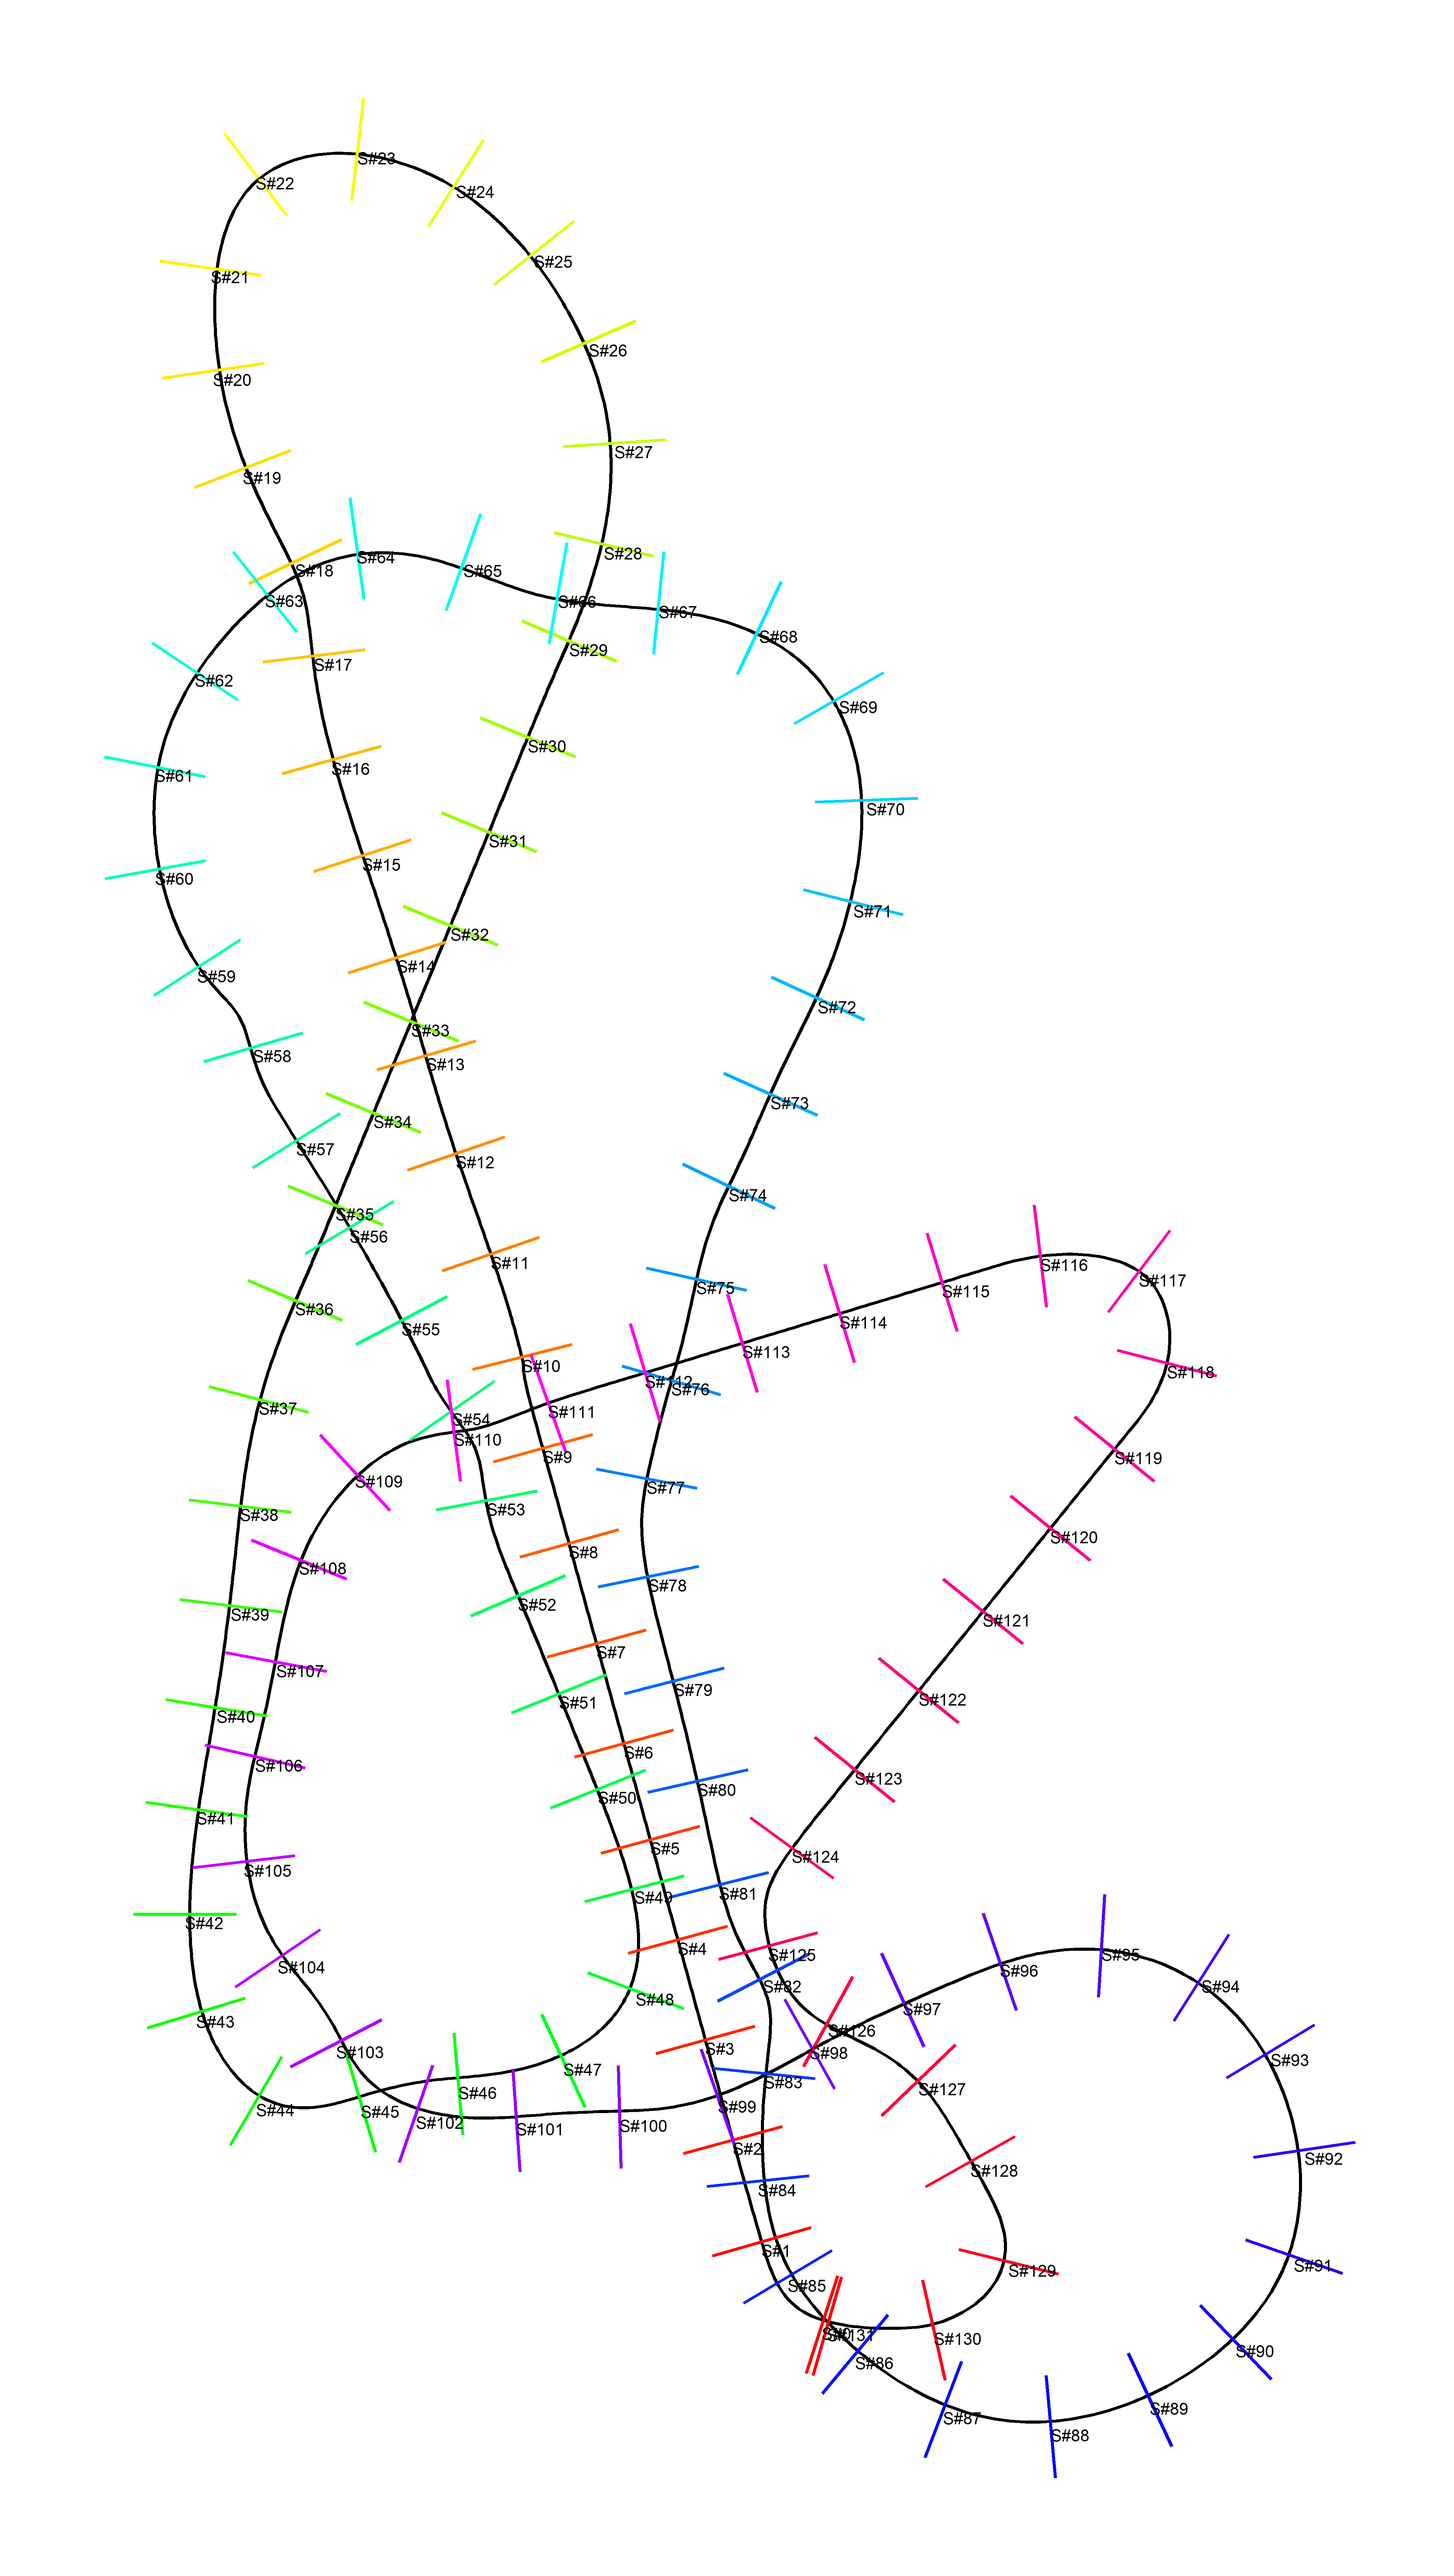
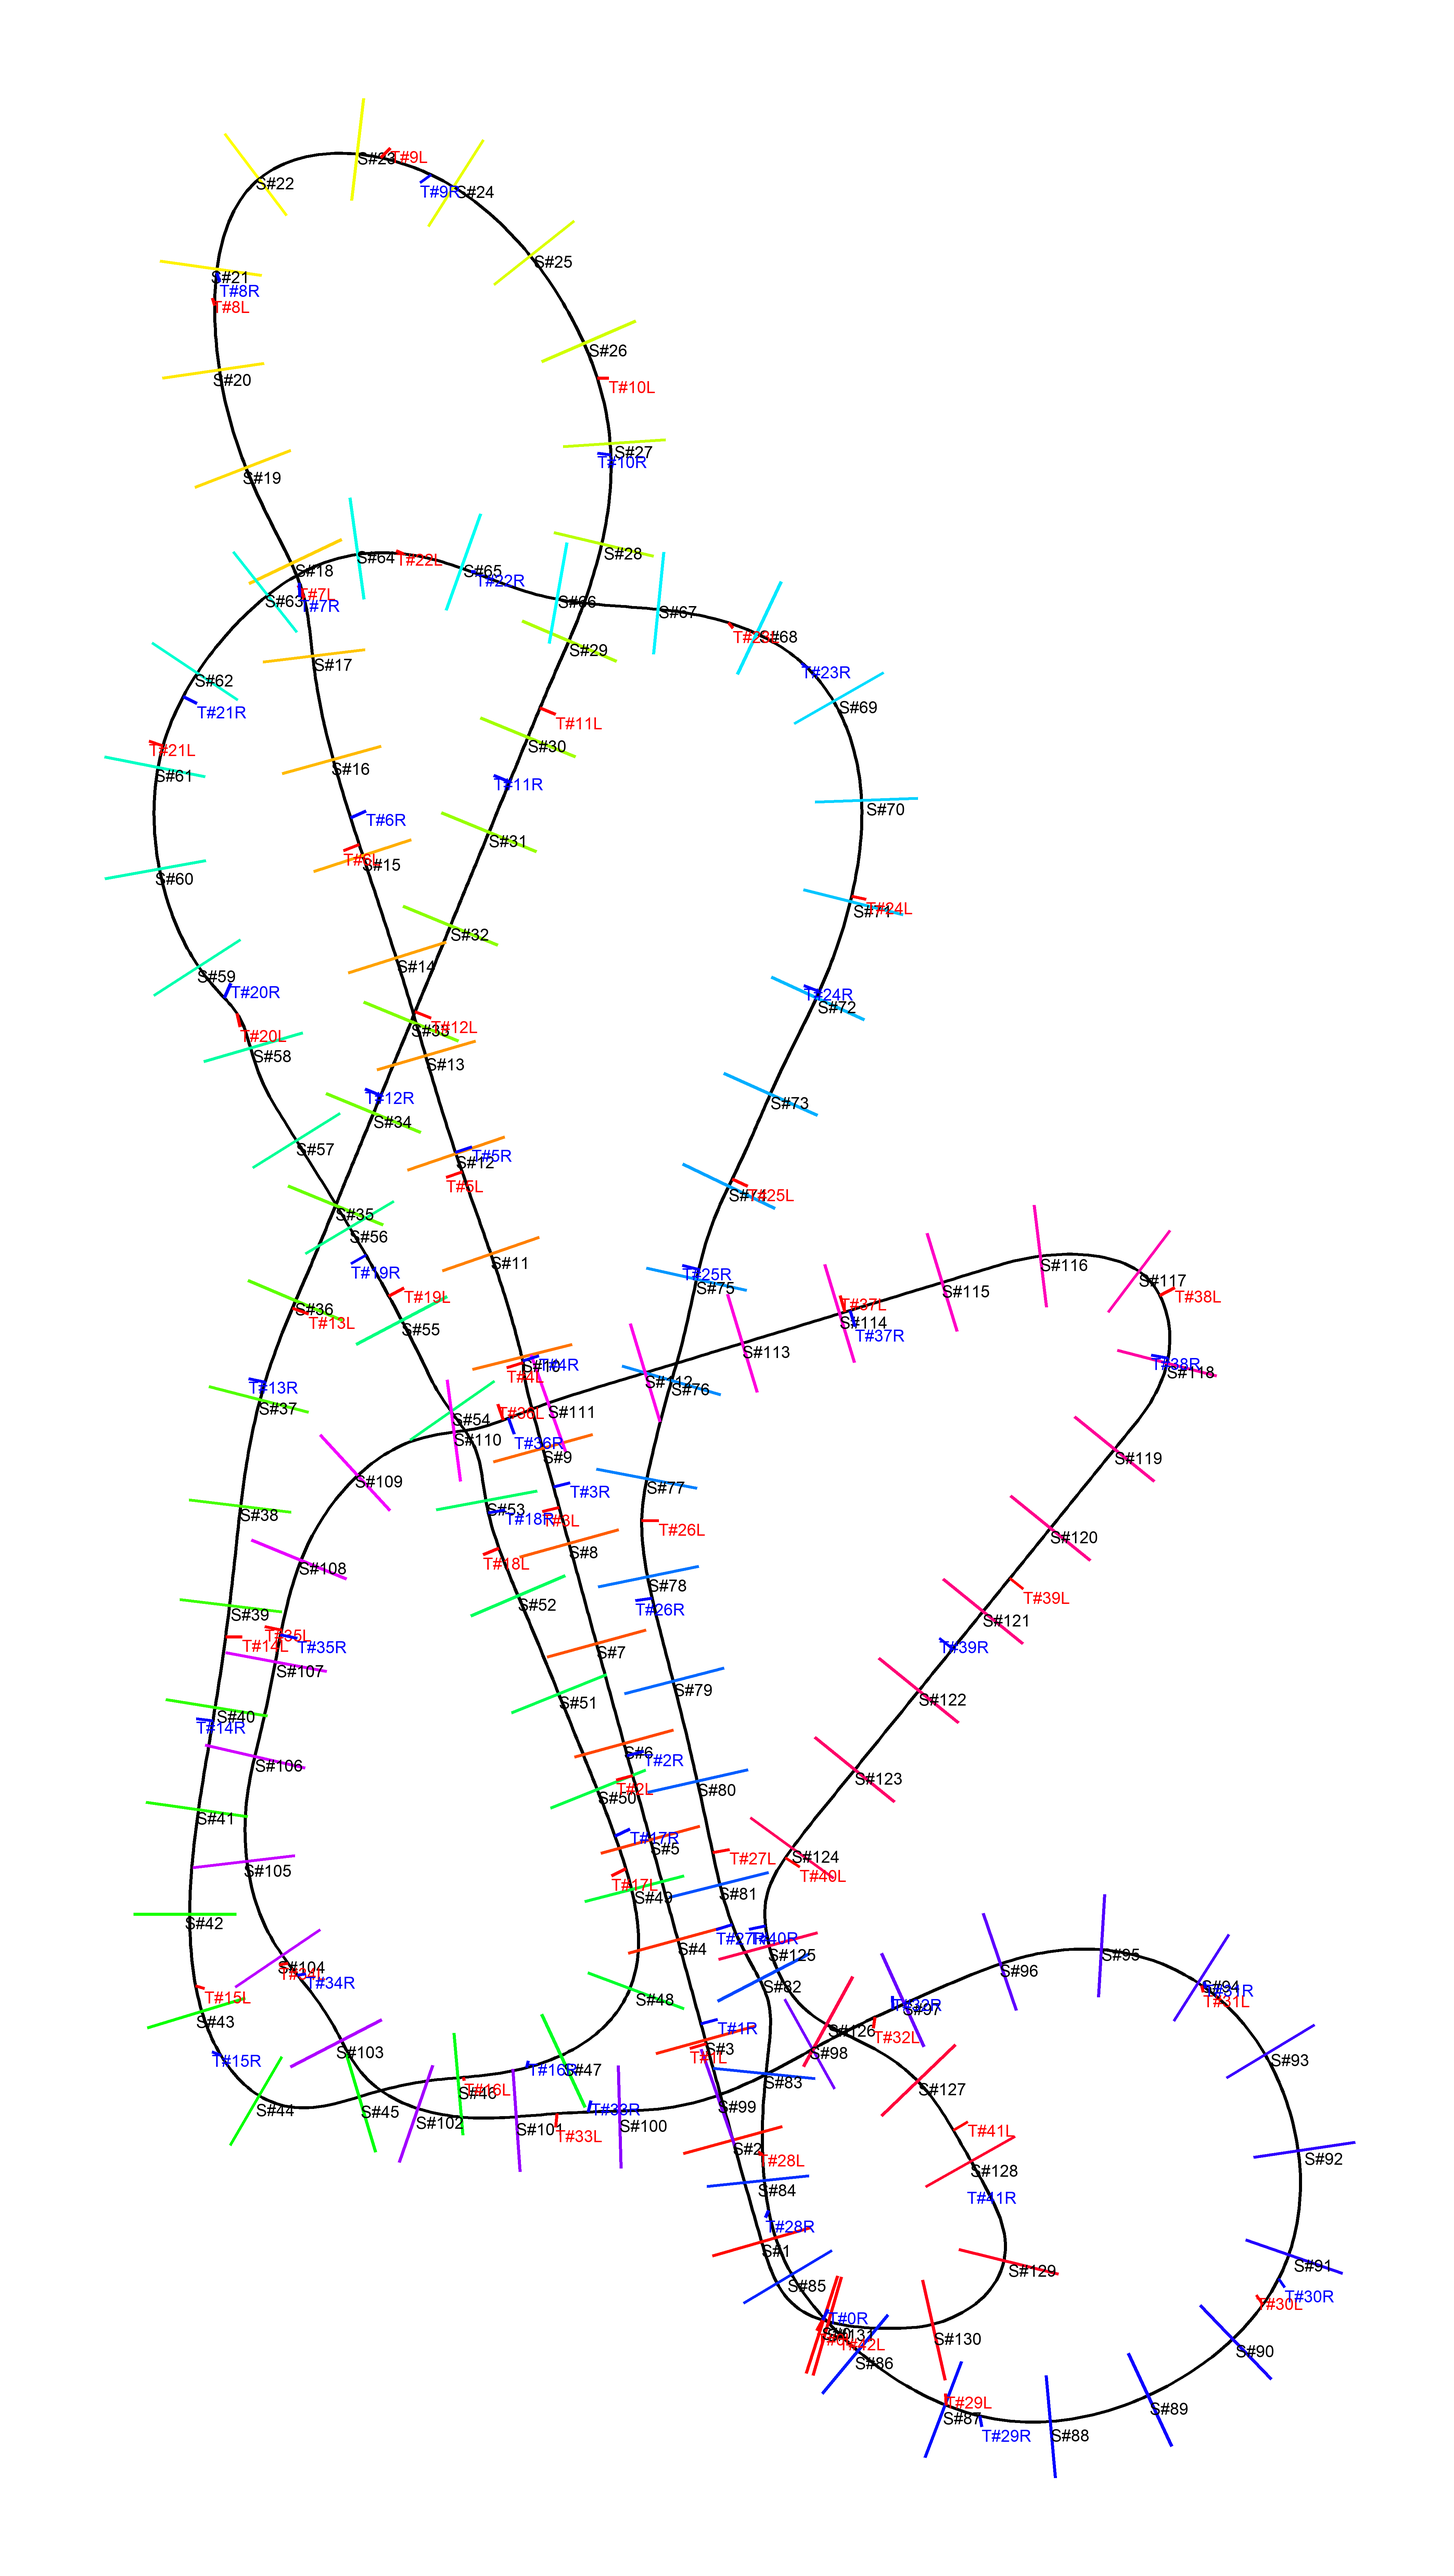
basically done

diff --git a/main.py b/main.py
@@ -22,6 +22,8 @@ The size of the house is:
 x_size = 2.36
 y_size = 4.18
 
+rail_spacing = 1/3/12
+
 scale_constant = 46.0133857727051
     
 offsetConstant = vec.obj(x=.9581111400446335 + 3/12, y= 1.8970500491082292 + 3/12, z=0)
@@ -85,8 +87,8 @@ for i in range(0, len(coords)):
     draw.line(convert(coords[i-1].main.x, y_size - coords[i-1].main.y, coords[i].main.x, y_size - coords[i].main.y), fill = (0,0,0,255), width= 9)
 
 for i in coords:
-    poseRight = i.railCoordinate(1/3/12)
-    poseLeft = i.railCoordinate(-1/3/12)
+    poseRight = i.railCoordinate(rail_spacing)
+    poseLeft = i.railCoordinate(-rail_spacing)
     coasterCoordsMatpltRight[0].append(poseRight.x)
     coasterCoordsMatpltRight[1].append(poseRight.y)
     coasterCoordsMatpltRight[2].append(poseRight.z)
@@ -117,9 +119,6 @@ font = ImageFont.truetype("Arial.ttf", 16 * 3)
 for num, i in enumerate(my_supports):
     draw.text(convert(i.x, y_size - i.y),f"S#{num}",(0,0,0, 255),font=font)
 
-#im.show()
-
-im.save("myOutput.png", dpi=convert(1/12,1/12))
 
 file_path = "output.txt"
 
@@ -132,24 +131,49 @@ with open(file_path, 'w') as file:
 print(f"Content has been written to {file_path}")
 
 
-#plt.show()
+def createTrackAndImages(rail_position, name_modifier, name_abbreviation, color):
+    runningLength = 0
 
-runningLength = 0
+    segmentLength = 7/12
 
-segmentLength = 2/12
+    current_index = 0
 
-current_index = 0
+    leftTrackIndexes = []
 
-leftTrackIndexes = []
+    while (current_index < len(coords)):
+        leftTrackIndexes.append(current_index)
+        while (runningLength < segmentLength):
+            current_index += 1
+            if current_index >= len(coords):
+                break
+            # print(current_index)
+            runningLength += (coords[current_index - 1].railCoordinate(rail_position) - coords[current_index].railCoordinate(rail_position)).mag
+        runningLength -= segmentLength
 
-while (current_index < len(coords)):
-    leftTrackIndexes.append(current_index)
-    while (runningLength < segmentLength):
-        current_index += 1
-        if current_index >= len(coords):
-            break
-        # print(current_index)
-        runningLength += (coords[current_index - 1].railCoordinate(-1/3/12) - coords[current_index].railCoordinate(-1/3/12)).rho
-    runningLength -= segmentLength
+    for i in range(0, len(leftTrackIndexes) - 1):
+        createtrack.drawCoords(createtrack.transformTrackSection(list(map(lambda e: e.railCoordinate(rail_position), coords[leftTrackIndexes[i]:leftTrackIndexes[i+1]]))), f"{i}{name_modifier}")
+        draw.text(convert(coords[leftTrackIndexes[i]].railCoordinate(rail_position).x, y_size - coords[leftTrackIndexes[i]].railCoordinate(rail_position).y),f"T#{i}{name_abbreviation}",color,font=font)
+        draw.line(convert(
+            coords[leftTrackIndexes[i]].railCoordinate(rail_position).x, y_size - coords[leftTrackIndexes[i]].railCoordinate(rail_position).y,
+            coords[leftTrackIndexes[i]].railCoordinate(-0).x, y_size - coords[leftTrackIndexes[i]].railCoordinate(-0).y
+            ), fill=color, width = 9)
+    createtrack.drawCoords(createtrack.transformTrackSection(list(map(lambda e: e.railCoordinate(rail_position), coords[leftTrackIndexes[-1]:]))), f"{len(leftTrackIndexes) - 1}{name_modifier}")
+    draw.text(convert(coords[leftTrackIndexes[-1]].railCoordinate(rail_position).x, y_size - coords[leftTrackIndexes[-1]].railCoordinate(rail_position).y),f"T#{len(leftTrackIndexes) - 1}{name_abbreviation}",color,font=font)
+    draw.line(convert(
+            coords[leftTrackIndexes[i]].railCoordinate(rail_position).x, y_size - coords[leftTrackIndexes[i]].railCoordinate(rail_position).y,
+            coords[leftTrackIndexes[i]].railCoordinate(-0).x, y_size - coords[leftTrackIndexes[i]].railCoordinate(-0).y
+            ), fill=color, width = 9)
 
-createtrack.drawCoords(createtrack.transformTrackSection(list(map(lambda e: e.railCoordinate(-1/3/12), coords[0:500]))), 0, True)
+createTrackAndImages(
+    -rail_spacing, "left", "L", (255,0,0,255)
+)
+
+createTrackAndImages(
+    rail_spacing, "right", "R", (0,0,255,255)
+)
+
+#im.show()
+
+im.save("myOutput.png", dpi=convert(1/12,1/12))
+
+plt.show()

diff --git a/createtrack.py b/createtrack.py
@@ -7,6 +7,8 @@ from scipy.spatial.distance import cdist
 def convert(*value):
     return tuple(map(lambda e: int(e * 12 * 150), value))
 
+font = ImageFont.truetype("Arial.ttf", 16 * 2)
+
 def transformTrackSection(coords: List[vec.Vector3D]):
     points = np.array(list(map(lambda e: [e.x, e.y, e.z], [
         coords[0], 
@@ -27,7 +29,7 @@ def transformTrackSection(coords: List[vec.Vector3D]):
 
     return newer_coords
 
-def drawCoords(coords: List[vec.Vector3D], id: int, isLeft: bool):
+def drawCoords(coords: List[vec.Vector3D], id: str):
     max_x = max([coord.x for coord in coords]) + .5/12
     max_y = max([coord.y for coord in coords]) + .5/12
 
@@ -42,7 +44,10 @@ def drawCoords(coords: List[vec.Vector3D], id: int, isLeft: bool):
     
     draw.line(convert(*properCoords), fill=(0,0,0,255), width = 9)
 
-    im.save(f"T#{id}{'left' if isLeft else 'right'}.png", dpi=convert(1/12,1/12))
+    draw.text(convert(0, 0),f"T#{id}",(0,0,0, 255),font=font)
+    draw.text(convert(properCoords[0], properCoords[1]),f"T#{id}",(0,255,0, 255),font=font)
+
+    im.save(f"T#{id}.png", dpi=convert(1/12,1/12))
 
 def plane_of_best_fit(points):
     """Finds the plane of best fit for a set of points.
